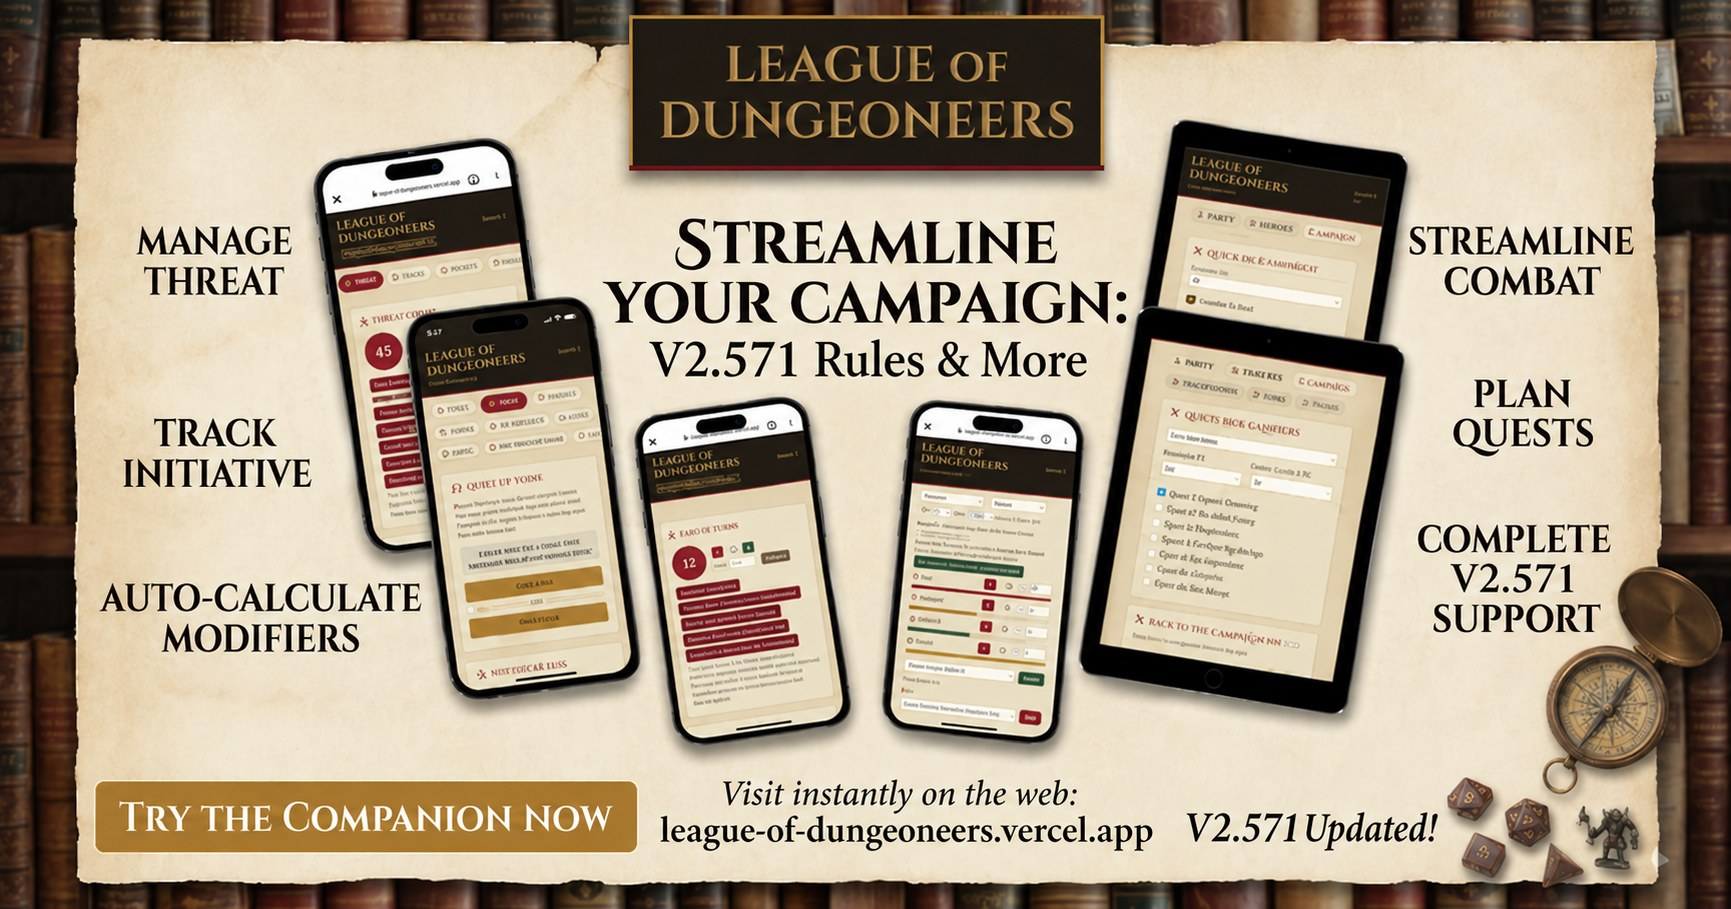
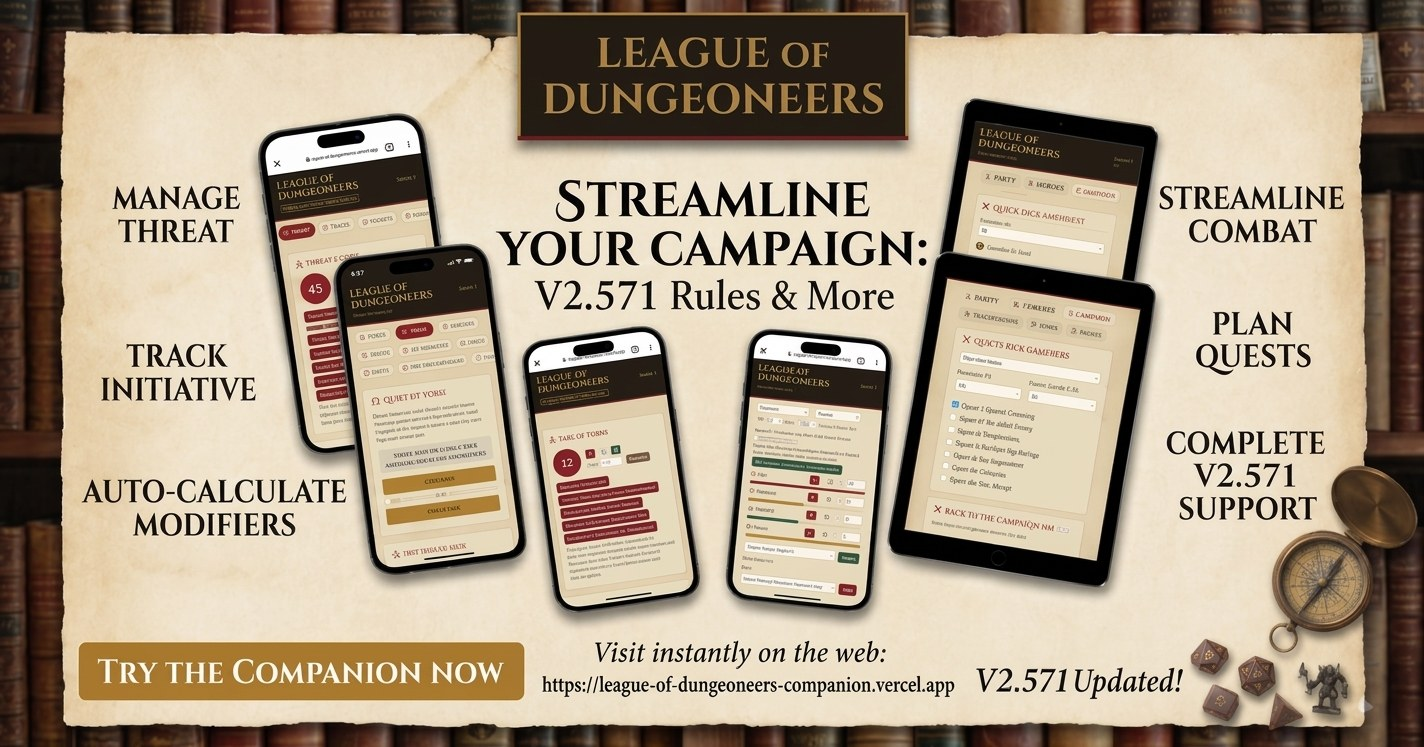
v1.63.1: share image with correct URL
Claude-Session: https://claude.ai/code/session_015PwHhDVbJzWCDb2GABeV2U

diff --git a/src/App.jsx b/src/App.jsx
@@ -3820,6 +3820,15 @@ function BuyMeACoffeeButton() {
 // ---------- Changelog ----------
 const CHANGELOG_DATA = [
   {
+    version: "1.63.1",
+    date: "2026-10-22",
+    sections: {
+      "Fixed": [
+        "Link-preview share image now shows the correct web address",
+      ],
+    },
+  },
+  {
     version: "1.63.0",
     date: "2026-10-22",
     sections: {

diff --git a/CHANGELOG.md b/CHANGELOG.md
@@ -3,6 +3,11 @@
 All notable changes to this project are documented here, following
 [Keep a Changelog](https://keepachangelog.com/en/1.1.0/) conventions.
 
+## [1.63.1] — 2026-10-22
+
+### Fixed
+- Link-preview share image now shows the correct web address
+
 ## [1.63.0] — 2026-10-22
 
 ### Added
